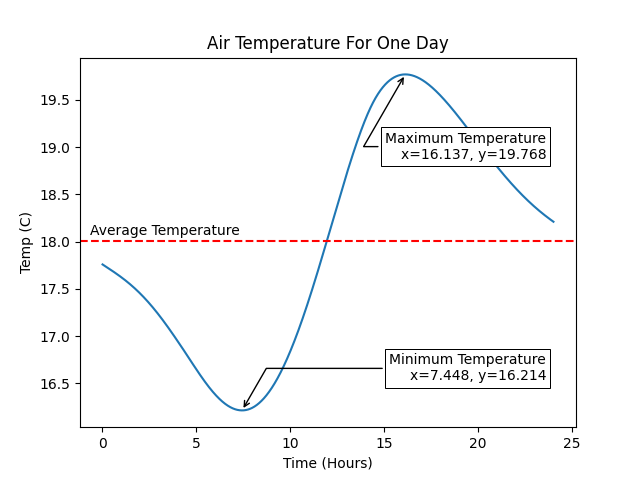
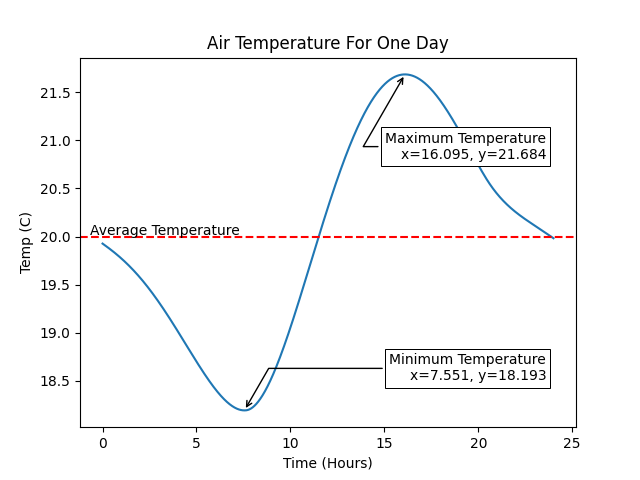
final graphing

diff --git a/house_model.py b/house_model.py
@@ -146,8 +146,9 @@ class House:
         plt.show()
 
     def eval_day(self):
-        self.day_time = self.results.t[T_0_EVAL:T_0_EVAL+SEC_DAY]/SEC_DAY*24-0
-        self.day_air_temp = self.air_temp[T_0_EVAL:T_0_EVAL+SEC_DAY]
+        self.day_time = (self.results.t[T_0_EVAL*SEC_DAY:T_0_EVAL*SEC_DAY+SEC_DAY] \
+                        /SEC_DAY*24-0)-T_0_EVAL*24
+        self.day_air_temp = self.air_temp[T_0_EVAL*SEC_DAY:T_0_EVAL*SEC_DAY+SEC_DAY]
         self.day_max = np.max(self.day_air_temp)
         self.day_min = np.min(self.day_air_temp)
         self.day_ave = np.mean(self.day_air_temp)
